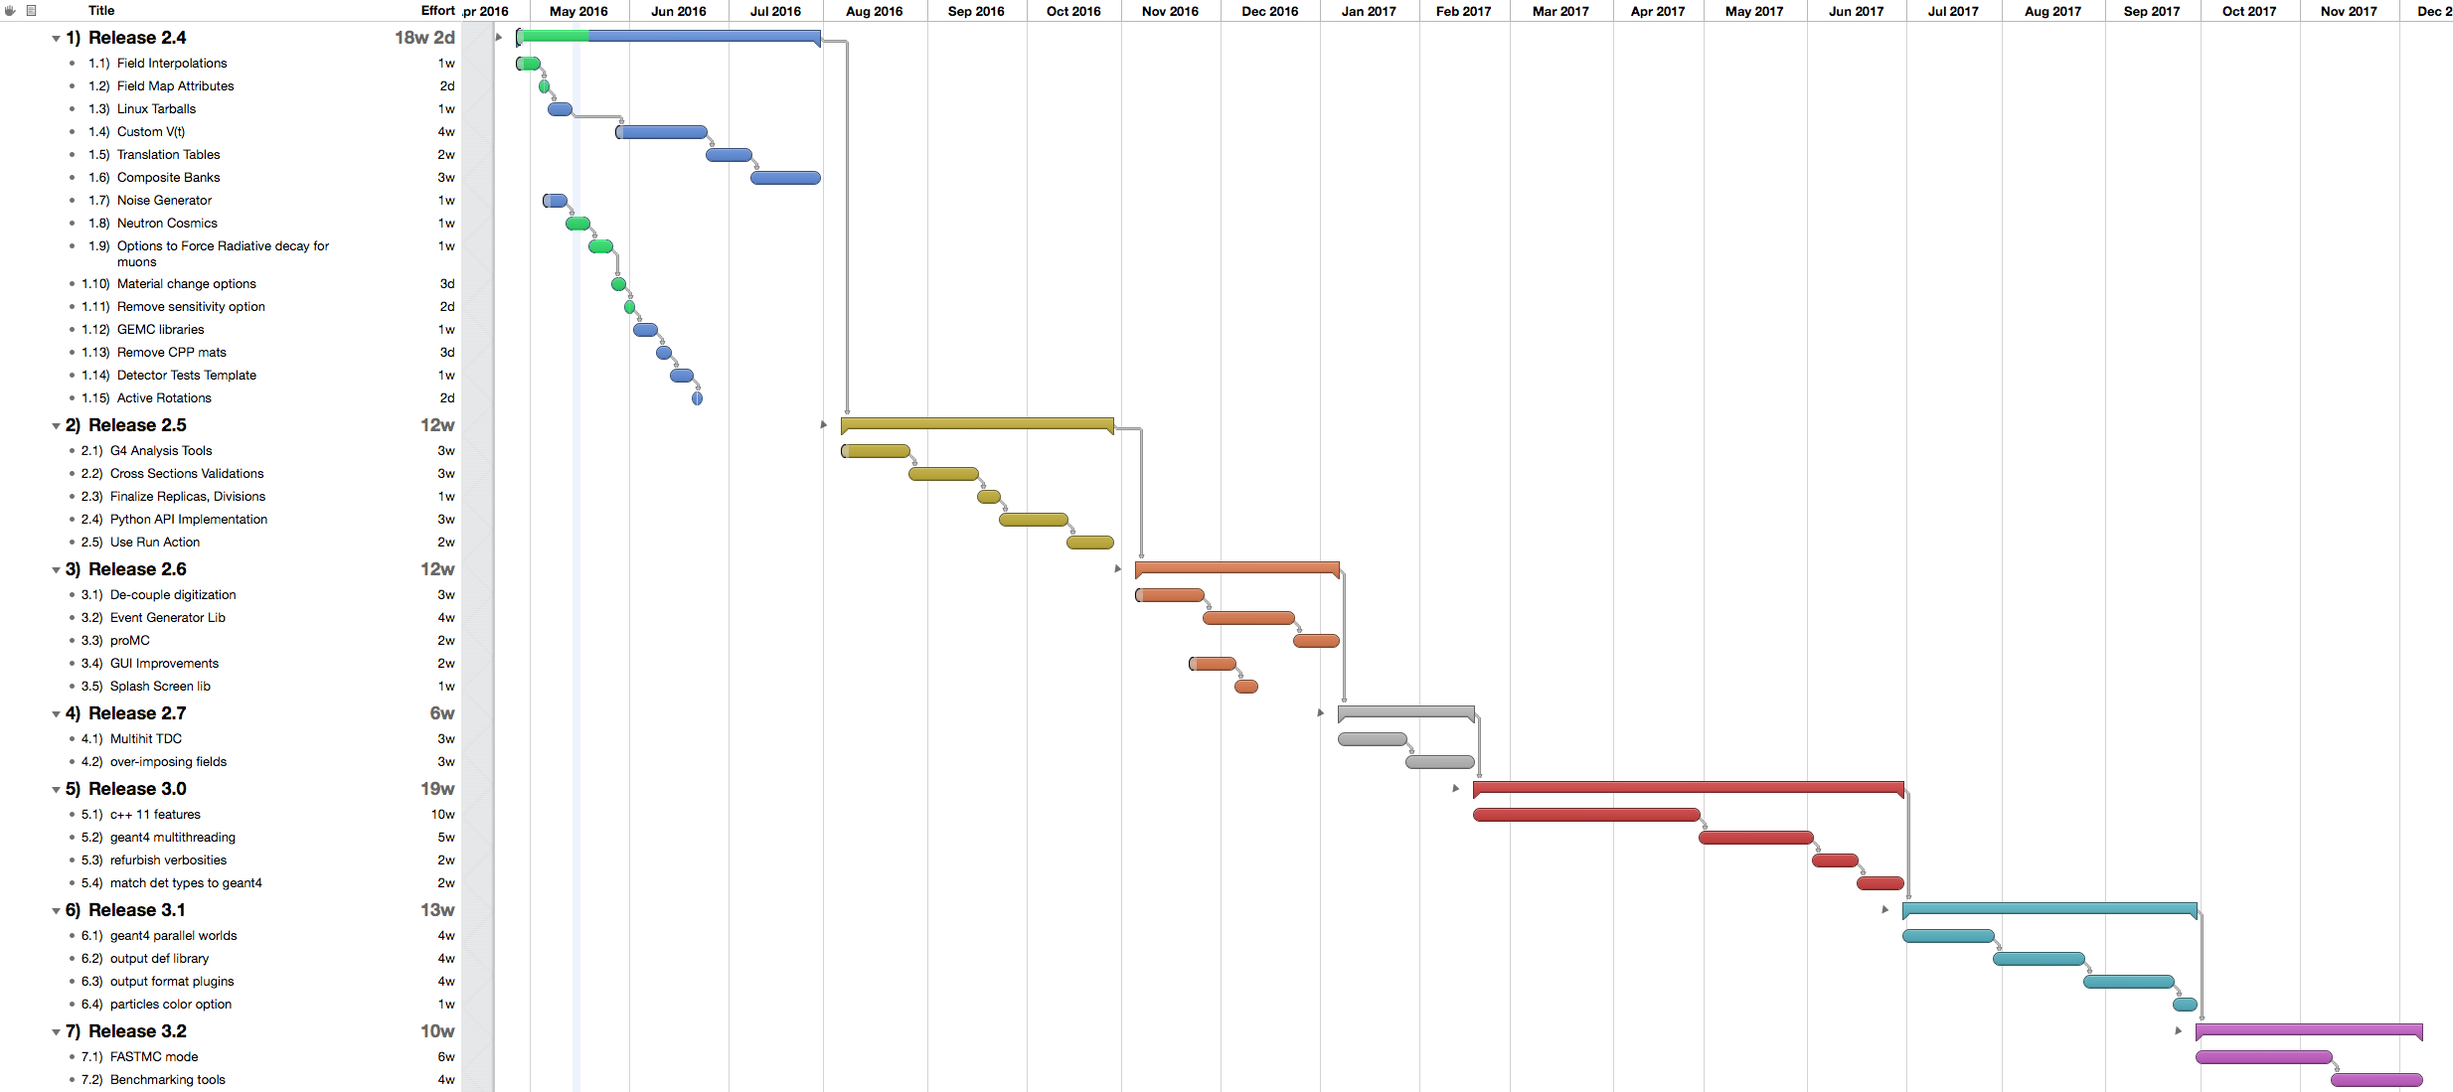
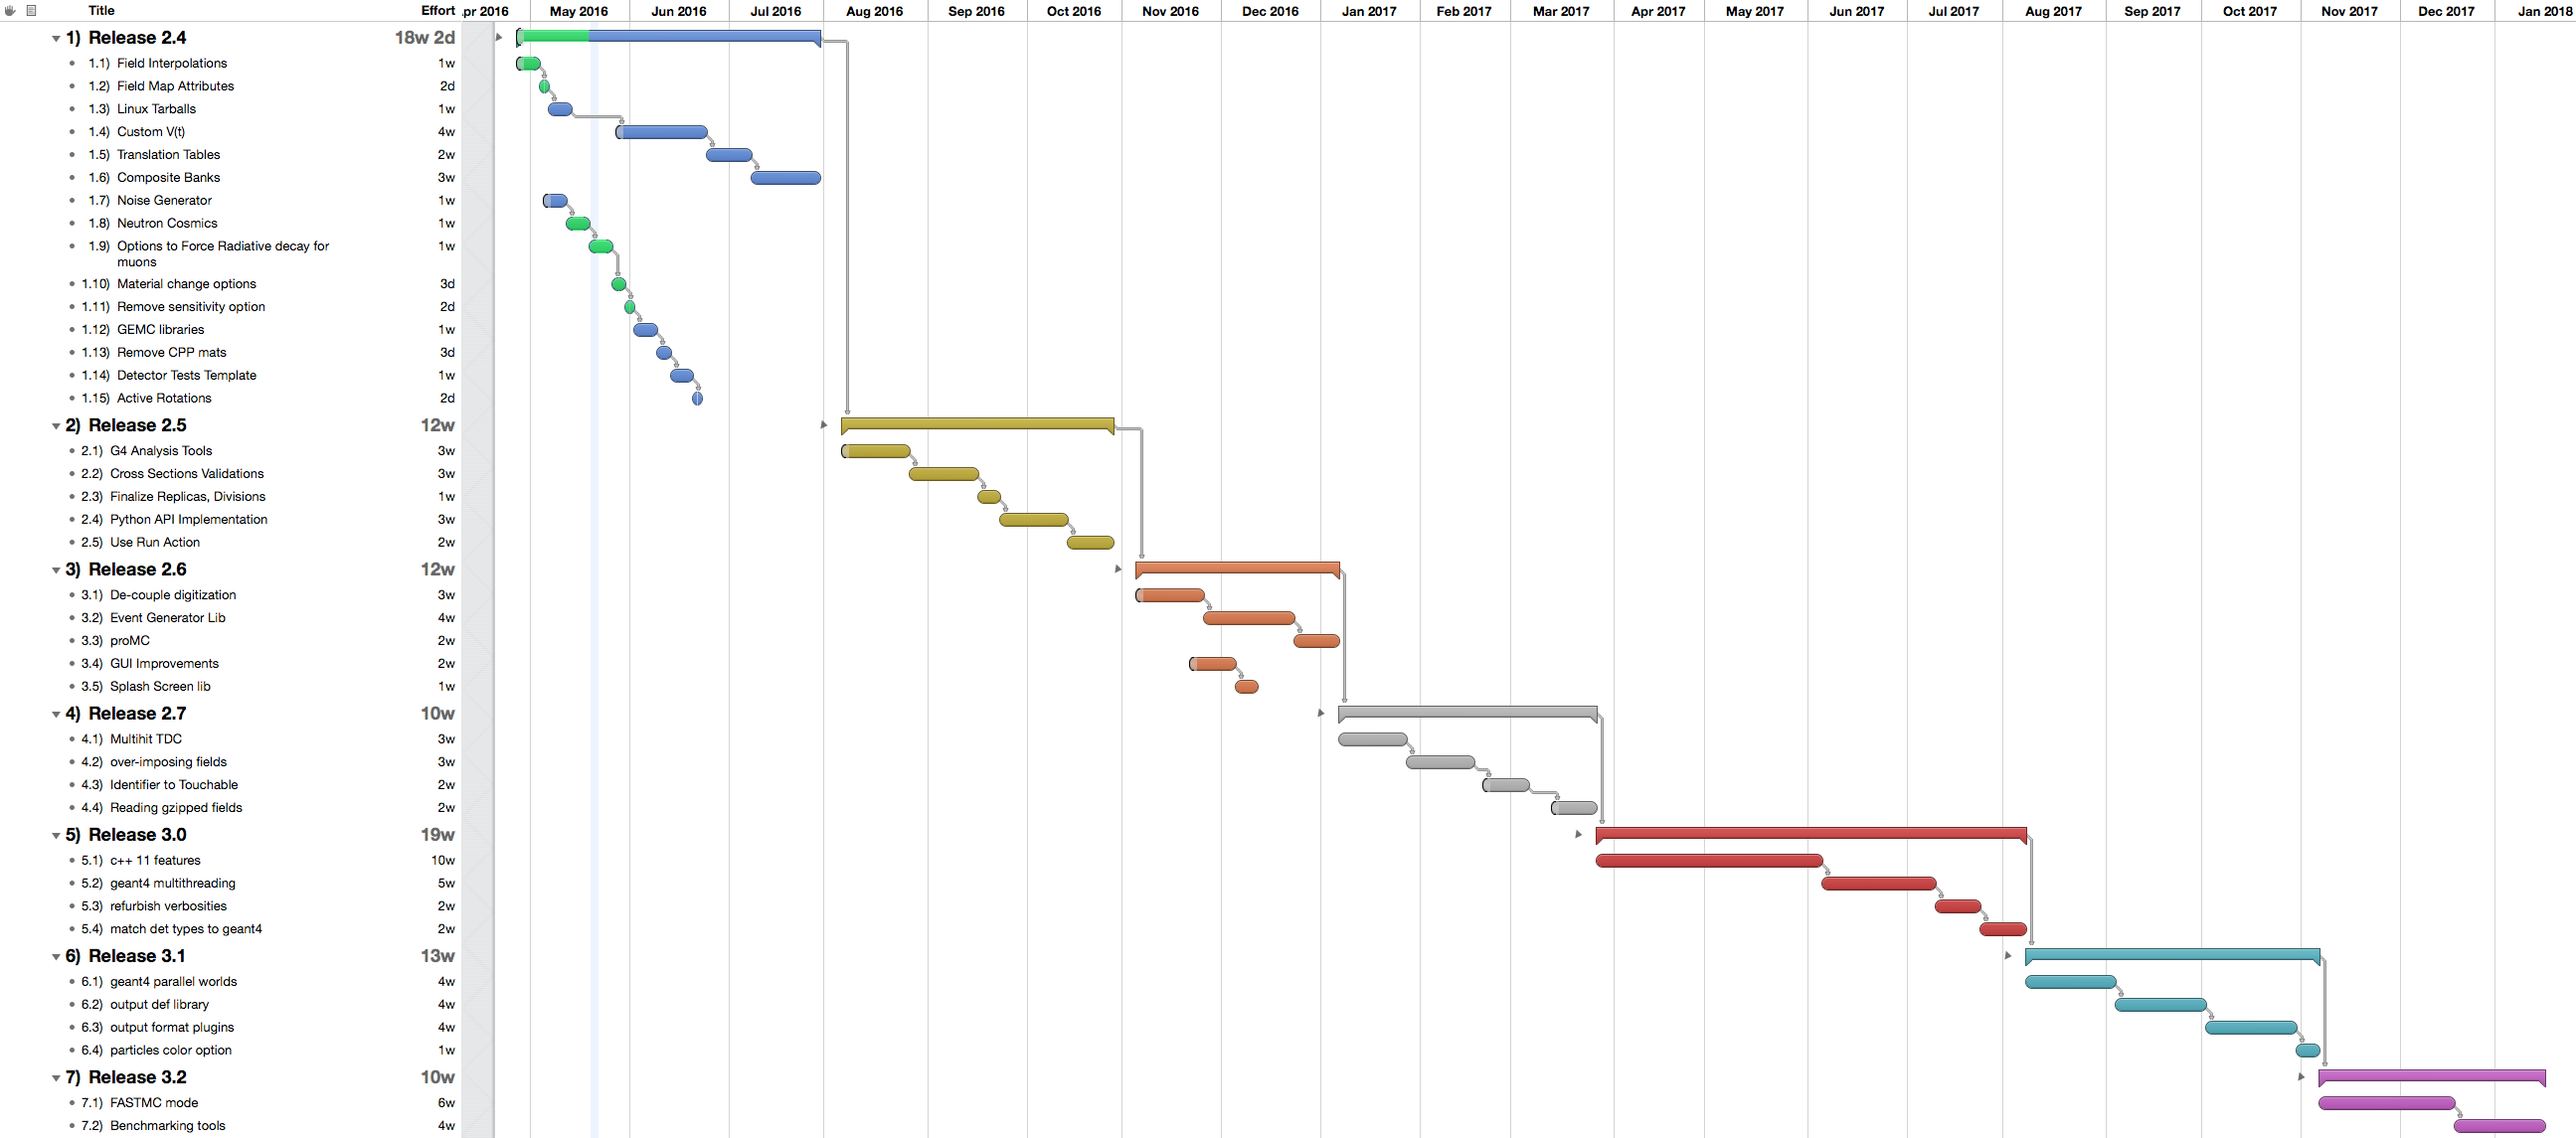
added 2 projects to 2.7

Changed region(s): [[0.156, 0.0, 1.0, 1.0], [0.0, 0.0, 0.1248, 1.0]]

diff --git a/webPage/source/documentation/releases/roadmap.rst b/webPage/source/documentation/releases/roadmap.rst
@@ -96,6 +96,9 @@ GEMC 2.7
 
 - Multihit TDC.
 
+- Change identifier class to touchable.
+  Have the vector<id> inside it, instead of passing vectors of identifier.
+
 
 GEMC 3.0
 --------
